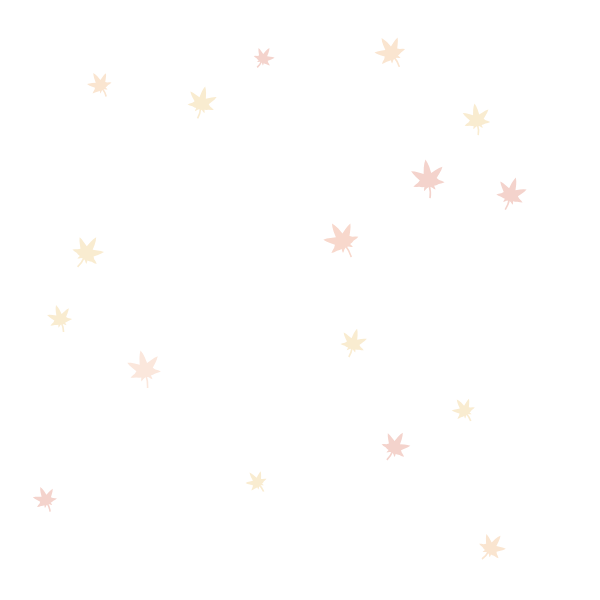
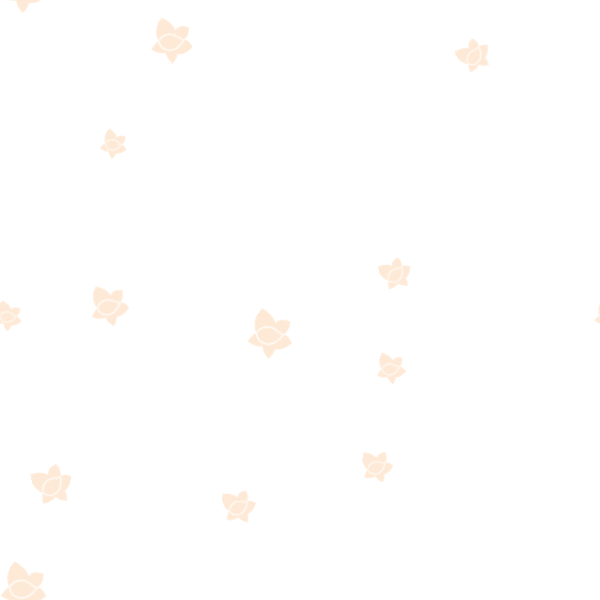
Add files via upload

diff --git a/index.html b/index.html
@@ -12,7 +12,7 @@
 <link rel="preconnect" href="https://fonts.gstatic.com" crossorigin>
 <link href="https://fonts.googleapis.com/css2?family=Zen+Maru+Gothic:wght@500;700&display=swap" rel="stylesheet">
 <link href="https://fonts.googleapis.com/css2?family=Zen+Kurenaido&display=swap&text=%E3%80%81%E3%80%82%E3%81%86%E3%81%8D%E3%81%8F%E3%81%95%E3%81%98%E3%81%A7%E3%81%AA%E3%81%BF%E3%82%82%E3%82%8A%E3%82%B9%E3%83%8A%E3%83%AA%E3%83%BC%E5%9C%92%E5%A4%A7%E5%AF%84%E5%B0%8F%E6%B7%BB" rel="stylesheet">
-<link rel="stylesheet" href="style.css?v=202610231127">
+<link rel="stylesheet" href="style.css?v=202610231554">
 </head>
 <body>
 <!--

diff --git a/about.html b/about.html
@@ -12,7 +12,7 @@
 <link rel="preconnect" href="https://fonts.gstatic.com" crossorigin>
 <link href="https://fonts.googleapis.com/css2?family=Zen+Maru+Gothic:wght@500;700&display=swap" rel="stylesheet">
 <link href="https://fonts.googleapis.com/css2?family=Zen+Kurenaido&display=swap&text=%E3%81%98%E3%81%BF%E3%82%82%E3%82%B9%E3%83%8A%E3%83%AA%E3%83%BC" rel="stylesheet">
-<link rel="stylesheet" href="style.css?v=202610231127">
+<link rel="stylesheet" href="style.css?v=202610231554">
 </head>
 <body>
 <!--

diff --git a/guide.html b/guide.html
@@ -12,7 +12,7 @@
 <link rel="preconnect" href="https://fonts.gstatic.com" crossorigin>
 <link href="https://fonts.googleapis.com/css2?family=Zen+Maru+Gothic:wght@500;700&display=swap" rel="stylesheet">
 <link href="https://fonts.googleapis.com/css2?family=Zen+Kurenaido&display=swap&text=%E3%81%98%E3%81%BF%E3%82%82%E3%82%B9%E3%83%8A%E3%83%AA%E3%83%BC" rel="stylesheet">
-<link rel="stylesheet" href="style.css?v=202610231127">
+<link rel="stylesheet" href="style.css?v=202610231554">
 </head>
 <body>
 <!--

diff --git a/life.html b/life.html
@@ -12,7 +12,7 @@
 <link rel="preconnect" href="https://fonts.gstatic.com" crossorigin>
 <link href="https://fonts.googleapis.com/css2?family=Zen+Maru+Gothic:wght@500;700&display=swap" rel="stylesheet">
 <link href="https://fonts.googleapis.com/css2?family=Zen+Kurenaido&display=swap&text=%E3%81%98%E3%81%BF%E3%82%82%E3%82%B9%E3%83%8A%E3%83%AA%E3%83%BC" rel="stylesheet">
-<link rel="stylesheet" href="style.css?v=202610231127">
+<link rel="stylesheet" href="style.css?v=202610231554">
 </head>
 <body>
 <!--

diff --git a/news.html b/news.html
@@ -12,7 +12,7 @@
 <link rel="preconnect" href="https://fonts.gstatic.com" crossorigin>
 <link href="https://fonts.googleapis.com/css2?family=Zen+Maru+Gothic:wght@500;700&display=swap" rel="stylesheet">
 <link href="https://fonts.googleapis.com/css2?family=Zen+Kurenaido&display=swap&text=%E3%81%98%E3%81%BF%E3%82%82%E3%82%B9%E3%83%8A%E3%83%AA%E3%83%BC" rel="stylesheet">
-<link rel="stylesheet" href="style.css?v=202610231127">
+<link rel="stylesheet" href="style.css?v=202610231554">
 </head>
 <body>
 <!--
